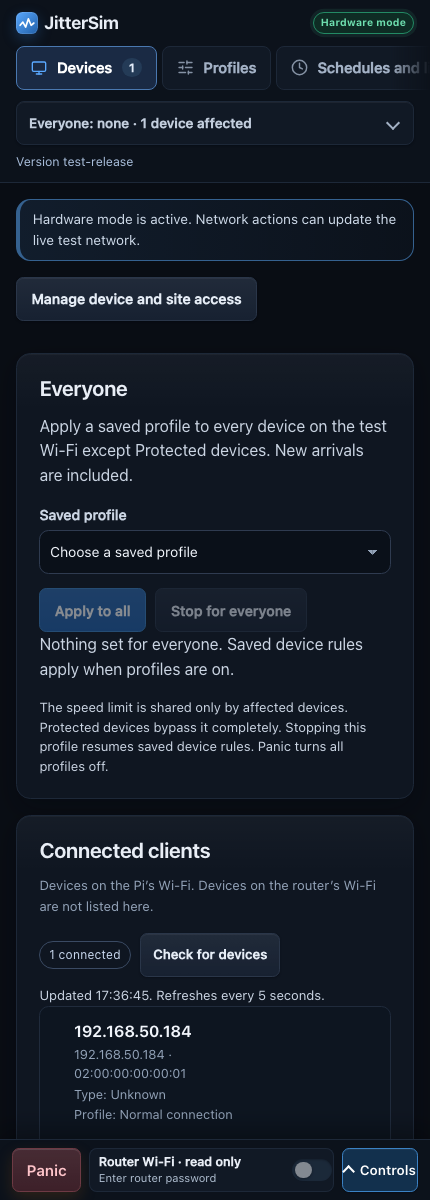
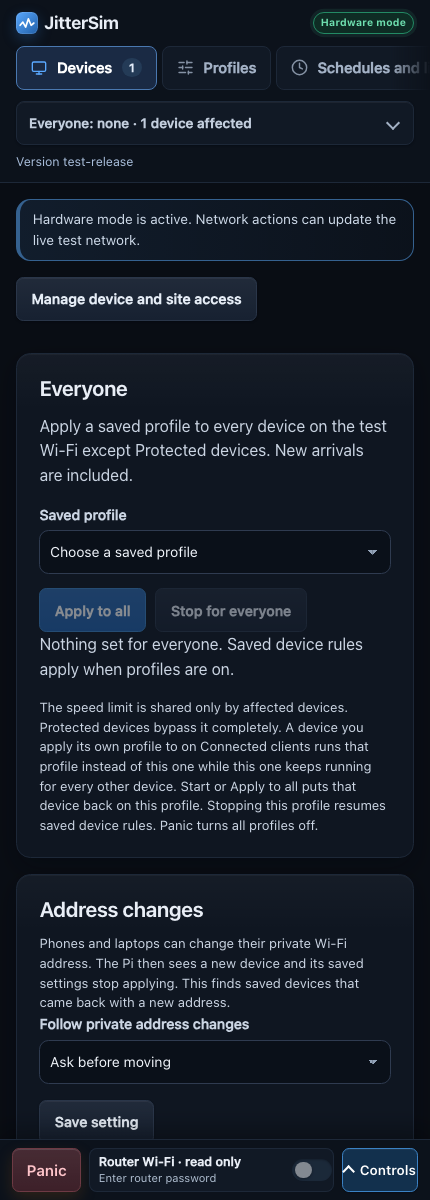
Retake the screenshots and add This device, Reset Wi-Fi name and the dashboard speed test
scripts/docs-screenshots.py gets one function that runs the fixture with the browser as the phone on the test Wi-Fi, so it can show the This device label, the sidebar button and the speed-test window with This dashboard selected. The four images that changed with the current UI are retaken (the other three came out byte for byte the same). The README, the user guide and the docs index show the new images.

Changed region(s): [[0.0907, 0.5858, 0.8767, 0.9558], [0.4837, 0.925, 0.5442, 0.9558], [0.4233, 0.925, 0.4535, 0.9558]]

diff --git a/scripts/docs-screenshots.py b/scripts/docs-screenshots.py
@@ -31,12 +31,14 @@ PHONE = {"width": 430, "height": 1200}
 TOKEN = "browser-test"  # the fixture's own test token, never a real one
 
 
-def start_fixture(*, seeded=False, address_follow=False, scheduler=False):
+def start_fixture(*, seeded=False, address_follow=False, scheduler=False, wifi_peer=False):
     environment = os.environ.copy()
     environment.update({
         "JITTERSIM_BROWSER_TEST_SEED": "1" if seeded else "0",
         "JITTERSIM_BROWSER_TEST_ADDRESS_FOLLOW": "1" if address_follow else "0",
         "JITTERSIM_BROWSER_TEST_SCHEDULER": "1" if scheduler else "0",
+        # Every browser request then comes from the fixture's phone on the test Wi-Fi.
+        "JITTERSIM_BROWSER_TEST_WIFI_PEER": "1" if wifi_peer else "0",
         "PYTHONPATH": os.pathsep.join(
             part for part in (str(ROOT / "src"), environment.get("PYTHONPATH", "")) if part
         ),
@@ -230,10 +232,65 @@ def speed_test_controls(browser, out):
         stop_fixture(process)
 
 
+def this_device(browser, out):
+    """The browser is the fixture's phone on the test Wi-Fi, so its row says This device and the
+    speed test can run from the dashboard itself."""
+
+    process, port = start_fixture(seeded=True, scheduler=True, wifi_peer=True)
+    try:
+        context = browser.new_context(viewport=DESKTOP)
+        page = context.new_page()
+        base = f"http://127.0.0.1:{port}"
+        page.goto(base)
+
+        headers = {"Authorization": f"Bearer {TOKEN}"}
+
+        def post(path, data):
+            response = page.request.post(base + path, headers=headers, data=data)
+            assert response.ok, (path, response.status, response.text())
+
+        post("/api/dashboard-access/register-self", {"name": "Fixture phone"})
+        post("/api/connected-device-labels", {
+            "mac_address": "02:00:00:00:00:01",
+            "display_name": "Fixture phone",
+            "device_type": "phone",
+        })
+        post("/api/connected-devices/apply-profile", {
+            "ipv4_address": "192.168.50.184",
+            "mac_address": "02:00:00:00:00:01",
+            "profile_id": "normal",
+        })
+        post("/api/apply", {})
+
+        unlock(page)
+        page.locator('[data-page-link="devices"]').first.click()
+        row = page.locator('.connected-row[data-mac-address="02:00:00:00:00:01"]')
+        expect(row.locator(".this-device-badge")).to_have_text("This device")
+        expect(page.locator("#quick-reset-wifi-name")).to_be_enabled()
+        settle(page)
+        # The top of the row: the name with its label, the details and the buttons.
+        box = row.bounding_box()
+        page.screenshot(path=str(out / "this-device.png"), full_page=True, clip={**box, "height": 255})
+        page.locator(".router-wifi-copy").screenshot(path=str(out / "reset-wifi-name-button.png"))
+
+        row.get_by_role("button", name="Test speed of Fixture phone").click()
+        dialog = page.locator("#speed-test-dialog")
+        expect(dialog).to_be_visible()
+        expect(page.locator("#speed-test-provider")).to_have_value("dashboard")
+        expect(page.locator("#speed-test-begin")).to_be_visible()
+        page.locator("#speed-test-label").fill("Before profile")
+        page.locator("#speed-test-label").evaluate("element => element.blur()")
+        settle(page)
+        dialog.screenshot(path=str(out / "device-speed-test-dashboard.png"))
+        context.close()
+    finally:
+        stop_fixture(process)
+
+
 def main():
     parser = argparse.ArgumentParser(description="Retake the screenshots in docs/screenshots.")
     parser.add_argument("--out", type=Path, default=ROOT / "docs" / "screenshots",
-                        help="folder for the seven images (default: docs/screenshots)")
+                        help="folder for the ten images (default: docs/screenshots)")
     out = parser.parse_args().out
     out.mkdir(parents=True, exist_ok=True)
     process, port = start_fixture(seeded=True, scheduler=True)
@@ -245,10 +302,11 @@ def main():
             cards(browser, port, out)
             address_changes(browser, out)
             speed_test_controls(browser, out)
+            this_device(browser, out)
             browser.close()
     finally:
         stop_fixture(process)
-    print("Wrote the seven images in", out)
+    print("Wrote the ten images in", out)
 
 
 if __name__ == "__main__":

diff --git a/docs/history/0.2.0-development-changes.md b/docs/history/0.2.0-development-changes.md
@@ -21,6 +21,21 @@ These are the complete detailed changes collected under Unreleased for the first
   Router and Wi-Fi page. The restart notice says that every device on the Pi's
   Wi-Fi, possibly including the one showing the dashboard, loses its connection
   for up to a minute, and the page names the network to join again.
+- **Test speed** can run from the dashboard itself. Open the dashboard on the
+  device and choose **This dashboard**: the Pi sends test data to that browser
+  for about 12 seconds, first without and then through the device's download
+  profile, and counts the same data in the device's queue. It is download only
+  (upload says `Not tested`). When the profile's cap is at or above 90% of what
+  the Pi can send the result says so instead of judging the cap, unless the speed
+  is clearly above it. One test runs at a time and at most 64 MiB are sent.
+- Each profile preset says what its numbers are based on. DSL and Slow 3G
+  (Chrome DevTools) are new presets.
+- `jittersim backup pull` on a Mac saves the Pi's database backup in
+  `~/jittersim-backups/` and never replaces a file. It runs once each time.
+- The global block list holds 2000 names and 80000 characters instead of 100.
+  Saving, import and history restore check the whole household access policy
+  first, and the address lookups renew a long list name by name. An older
+  release refuses more than 100 names (see the downgrade note in the user guide).
 - Update the Pi in one step. `sudo jittersim update` on the Pi (add `--yes` to
   skip the question or `--offline` to skip GitHub) and `jittersim remote update
   now` from a Mac check GitHub for a newer signed release, show its notes,
@@ -98,6 +113,9 @@ These are the complete detailed changes collected under Unreleased for the first
 
 ### Changed
 
+- The connection check and the speed test send their pings only to hosts of the
+  test Wi-Fi network, never to the network or broadcast address or the Pi's own
+  address.
 - Open dashboard tabs share one reading of live traffic (1 second), the
   dashboard health check (2 seconds) and the Ethernet details (15 seconds), so a
   second tab no longer makes the Pi run `nft`, `tc` and `nmcli` again. A time

diff --git a/docs/README.md b/docs/README.md
@@ -350,8 +350,8 @@ the first plan (September 2026) and is historical too.
 
 ## Screenshots
 
-The README shows the two overview images and the two new feature images. The user guide shows all
-seven. They use sample data from the browser test fixture: no real phone, Pi or home network. The
+The README shows the overview images and the feature images. The user guide shows all ten. They
+use sample data from the browser test fixture: no real phone, Pi or home network. The
 five existing images are unchanged. The two feature images were captured on 2026-10-19 from
 `18c3f3d4` (see
 [ui-overhaul-proposal-2026-10-09.md](ui-overhaul-proposal-2026-10-09.md)):
@@ -372,8 +372,15 @@ five existing images are unchanged. The two feature images were captured on 2026
   selected and one sample suggestion waiting for review.
 - [device-speed-test-controls.png](screenshots/device-speed-test-controls.png): the speed-test
   window for the sample phone before a test starts, with the site, length, label and start button.
+- [device-speed-test-dashboard.png](screenshots/device-speed-test-dashboard.png): the same window with
+  **This dashboard** selected, as it opens on the device itself.
+- [this-device.png](screenshots/this-device.png): the top of the sample phone's row in Connected
+  clients with the **This device** label.
+- [reset-wifi-name-button.png](screenshots/reset-wifi-name-button.png): the sidebar buttons for the
+  router Wi-Fi, with **Reset Wi-Fi name**. The last three were captured on 2026-10-24 with the
+  fixture's phone as the browser's own device.
 
-`python scripts/docs-screenshots.py` retakes all seven images (add `--out DIR` to write somewhere else first).
+`python scripts/docs-screenshots.py` retakes all ten images (add `--out DIR` to write somewhere else first).
 It starts separate local fixtures for the different sample data and drives the pages with Playwright. It needs
 `pip install 'playwright==1.63.0'` and `python -m playwright install chromium`. Commit only the
 images that changed. The two overview images are about 280 KB and 125 KB because PNGs from

diff --git a/docs/user-guide.md b/docs/user-guide.md
@@ -143,6 +143,8 @@ applying access rules, so run `sudo jittersim access apply` after changing it
 Run `sudo jittersim --help` for the command list. More examples are in the
 [Pi installation and recovery guide](../deploy/raspberry-pi/README.md).
 
+<img src="../docs/screenshots/reset-wifi-name-button.png" alt="The sidebar buttons Check router Wi-Fi, Copy router Wi-Fi to Pi and Reset Wi-Fi name" width="40%" />
+
 Use **Reset Wi-Fi name** in the sidebar (on a phone, in the Controls sheet) or on Router and
 Wi-Fi, or run `sudo jittersim wifi reset` on the Pi.
 It restores the default name `TestNet` and keeps the current password. Confirming the reset
@@ -870,6 +872,10 @@ devices on the Pi's test Wi-Fi. Devices on the router's Wi-Fi are outside this
 list. A client needs a verified connection and an IPv4 address before a profile
 or group can be assigned.
 
+<img src="../docs/screenshots/this-device.png" alt="The Fixture phone row in Connected clients with the green label This device next to its name" width="100%" />
+
+The device you browse with over the test Wi-Fi carries a **This device** label.
+
 Choose a profile beside a client then click **Assign profile** or **Apply
 profile**. Choose an existing group then click **Add to group**. For a client
 without a saved assignment, that group needs a profile (**Profile for this
@@ -1104,6 +1110,8 @@ a device saw. An older helper makes the card ask for an update.
 
 **Test speed** on a connected device in **Devices** compares the device's speed
 before and after a profile.
+
+<img src="../docs/screenshots/device-speed-test-dashboard.png" alt="The speed-test window for Fixture phone with This dashboard selected as the source of the test data, the label Before profile and the Start measuring button" width="100%" />
 
 **From the dashboard (no outside server).** Open the dashboard on the device you
 want to test (it needs dashboard access and the admin token), go to **Devices**

diff --git a/README.md b/README.md
@@ -38,11 +38,16 @@ test. It is for experiments, not a replacement for your home router.
 
 The Address changes card lets you review a saved device's new private Wi-Fi
 address before moving its settings. The speed-test window lets you choose a
-site and test length before starting a test on the device.
+site and test length before starting a test on the device. On the device itself
+the dashboard can send the test data, with no outside site. The device you browse
+with is marked **This device**, and the sidebar has a **Reset Wi-Fi name** button.
 
 <div align="center">
   <img src="docs/screenshots/address-changes.png" alt="The Address changes card with Ask selected and one sample suggestion for Dad's phone at a new private address" width="100%" />
   <img src="docs/screenshots/device-speed-test-controls.png" alt="The speed-test window for Fixture phone with Cloudflare selected, a 45 second length, the label Before profile and the Start measuring button" width="100%" />
+  <img src="docs/screenshots/device-speed-test-dashboard.png" alt="The speed-test window for Fixture phone with This dashboard selected as the source of the test data, the label Before profile and the Start measuring button" width="100%" />
+  <img src="docs/screenshots/this-device.png" alt="The Fixture phone row in Connected clients with the green label This device next to its name" width="100%" />
+  <img src="docs/screenshots/reset-wifi-name-button.png" alt="The sidebar buttons Check router Wi-Fi, Copy router Wi-Fi to Pi and Reset Wi-Fi name" width="40%" />
 </div>
 
 *Sample data only; no real phone, Pi or home network is shown.*
